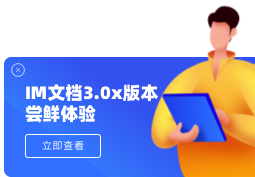
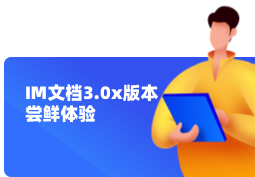
修改首页右侧浮动层

diff --git a/index.html b/index.html
@@ -10,7 +10,7 @@
     <link rel="shortcut icon" href="favicon.ico">
     <link href="https://netdna.bootstrapcdn.com/font-awesome/4.7.0/css/font-awesome.min.css" rel="stylesheet">
     <link rel="stylesheet" type="text/css" href="static/reset.css">
-    <link rel="stylesheet" type="text/css" href="static/doc.css?v=20220304">
+    <link rel="stylesheet" type="text/css" href="static/doc.css?v=20220307">
 </head>
 <body>
     <div class="im-container">
@@ -26,7 +26,8 @@
          <div class="im-content">
              <!-- docs select area -->
              <div class="im-docs-select-area">
-                <p class="im-content-info">环信即时通讯云是全球最大的即时通讯云Paas平台。V3.0版本对SDK和通讯协议进行了全面深度的改造与优化</p>
+                <!-- <p class="im-content-info">环信即时通讯云是全球最大的即时通讯云Paas平台。V3.0版本对SDK和通讯协议进行了全面深度的改造与优化</p> -->
+                <p class="im-content-info">环信即时通讯云开发文档。V3.0版本对SDK和通讯协议进行了全面深度的改造与优化</p>
                 <select class="im-select-area"  onchange="javascript:location.href=this.value;"> 
                     <option value="http://docs-im.easemob.com/start/start">IM开发文档2.0</option>
                     <!-- <option value="http://docs.easemob.com/im/start" selected = "selected">IM开发文档3.0</option> -->
@@ -295,6 +296,9 @@
             <p>© 2017环信丨京ICP备14026002号</p>
          </div>
     </div>
-    <div class="right-layer" onclick="window.location.href='https://docs-im.easemob.com/ccim/intro'"></div>
+    <div class="right-layer" id="right-layer">
+      <a class="u-close" onclick="document.getElementById('right-layer').style.display = 'none';"><img src="static/u-close@2x.png"></a>
+      <a href="https://docs-im.easemob.com/ccim/intro" class="u-view">立即查看</a>
+    </div>
 </body>
 </html>

diff --git a/static/doc.css b/static/doc.css
@@ -646,7 +646,30 @@ html,body{
   right: 0;
   width: 255px;
   height: 177px;
-  background-image: url(3.0x.png);
-  background-image: -webkit-image-set(url(3.0x.png) 1x, url(3.0x@2x.png) 2x);
-  cursor: pointer;
+  background-image: url(3.0x.png?20220307);
+  background-image: -webkit-image-set(url(3.0x.png?20220307) 1x, url(3.0x@2x.png?20220307) 2x);
+}
+.right-layer .u-close {
+  position: absolute;
+  top: 65px;
+  left: 10px;
+  width: 16px;
+  height: 16px;;
+}
+.right-layer .u-close img {
+  display: block;
+  width: 100%;
+}
+.right-layer .u-view {
+  position: absolute;
+  left: 25px;
+  bottom: 20px;
+  width: 76px;
+  height: 24px;
+  font-size: 12px;
+  color: #fff;
+  line-height: 24px;
+  text-align: center;
+  border: 1px solid #fff;
+  border-radius: 4px;
 }
